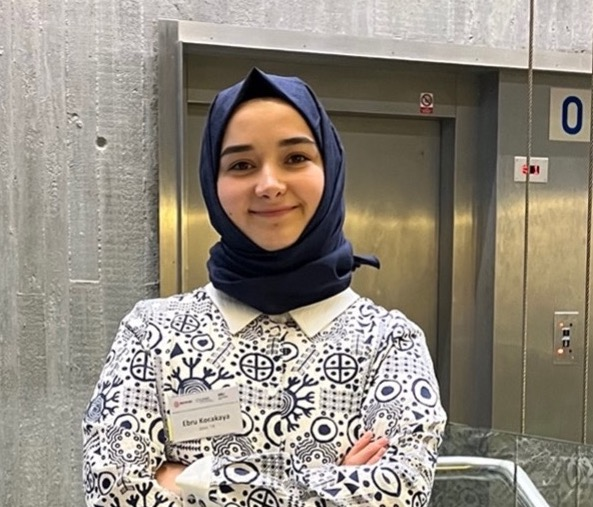
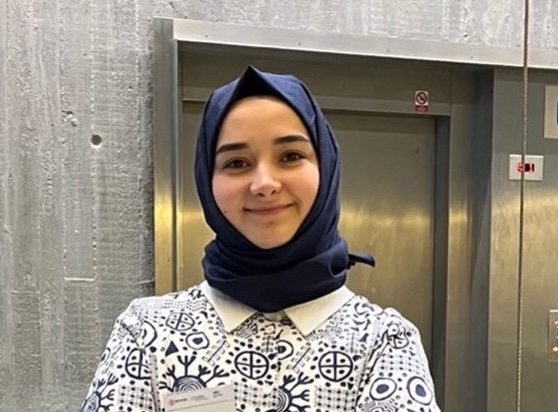
team_member_added

diff --git a/src/Sections/Team/index.js b/src/Sections/Team/index.js
@@ -137,8 +137,14 @@ const Team = () => {
             name="Ozan Göçmen"
             image="ozangocmen"
             title="Master's student"
-          />        
- <Card
+          />   
+           <Card
+            text="I aim to use my Java, Python and Matlab experiments in biomedical engineering in the field of bioinformatics."
+            name="Ceyda Sezer"
+            image="ceydasezer"
+            title="Master's student"
+          />         
+          <Card
             text="As a bioinformatician and code developer, I work on genomics-based projects at Genfoquest Analytica. My role involves conducting detailed bioinformatics analyses and developing innovative computational tools. "
             name="Elif Duymaz"
             title="MSc. Bioinformatician"
